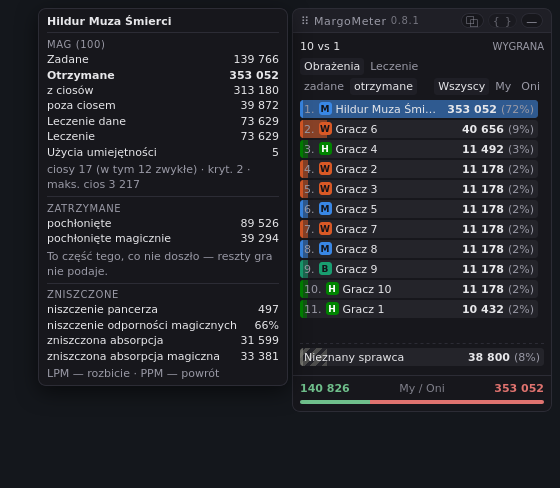
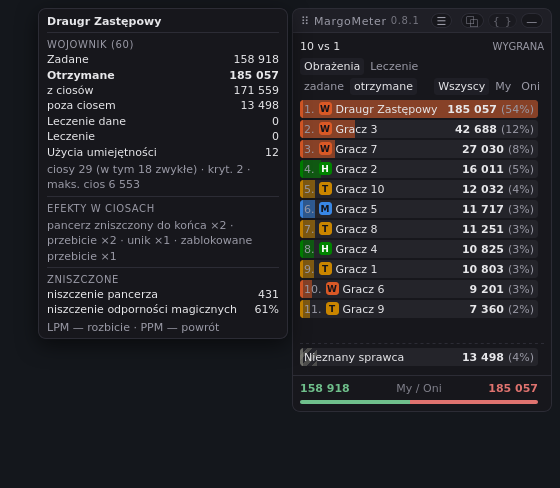
docs(docs,any,tools): the panel is photographed as it stands now, and the fifth audit closes
Closes F8 of `docs/audits/2026-08-26-the-whole-tree-read-a-fifth-time.md`, and
with it the audit — which was the round's whole purpose (§7.7).

**The set was fifteen commits stale, in both READMEs, above everything else a
player sees.** `screenshots/taken-at.json` named `bf3f4c8`; three of the fifteen
changed what is in frame — `0a53e9b` put `⚠` beside a combatant something could
not be read about, `75096ad` put `☰` on the title bar, and `487ec04` made every
bar one width using one of these four pictures as its evidence. The repository
fixed the bug and left the picture. This is the second audit in a row to file it,
which is §7.7's own trigger, and the guard written to make it readable did its
job: the commit was there to be compared and nobody compared it.

Retaken at `f2fb2ad` on the newest recording, `2026-08-26-luvia-grupa-vs-draugr`
— ten players against a level-60 Draugr, which is the *ten against one* both
captions already promised. **Every picture was opened before this commit**, which
is §9.8's obligation on a person and the half no guard here holds: five real
panels, five distinct screens, five different file sizes, each with the panel in
frame and the title bar carrying the `☰` no earlier set could have.

**A fifth shot: the shelf.** It is not on the drill chain the other four make —
ranking, breakdown, deepest level, card — and it is here for the opposite reason:
it is the one screen a reader cannot guess at from the ranking. The others show a
[…]

diff --git a/tools/panel-screenshots.ts b/tools/panel-screenshots.ts
@@ -82,7 +82,7 @@ export type PanelShot = {
 };
 
 /**
- * Damage taken, drilled to the bottom, plus the card.
+ * Damage taken, drilled to the bottom, plus the card — and the shelf beside them.
  *
  * The chain is deliberate: the ranking answers *who*, and the two levels under it
  * answer *what that figure is made of* — which is the thing prose cannot show and
@@ -92,12 +92,19 @@ export type PanelShot = {
  * window: it opens beside the panel, and `src/ui/panel-element.ts` keeps all
  * of it on screen, so too narrow a window moves it rather than clipping it and the
  * picture would be honest and useless.
+ *
+ * The shelf is not on that chain and is here for the opposite reason: it is the
+ * one screen a reader cannot guess at from the ranking. Every other picture shows
+ * a figure being taken apart, and this one shows that a fight survives the fight
+ * after it — which is the whole of what a reader would otherwise have to install
+ * the add-on to find out (`docs/specs/2026-08-26-a-fight-you-can-go-back-to.md`).
  */
 export const PANEL_SHOTS: PanelShot[] = [
   { name: "taken", width: 292, height: 480 },
   { name: "breakdown", width: 292, height: 656 },
   { name: "deep", width: 292, height: 448 },
   { name: "tip", width: 560, height: 488 },
+  { name: "fights", width: 292, height: 400 },
 ];
 
 export function composeShotFileName(shot: PanelShot): string {
@@ -117,7 +124,7 @@ export const TAKEN_TAB_INDEX = composeDirectionTabs(composeDefaultState().metric
 /**
  * The classes the driver reaches through, spelled once.
  *
- * The panel names its own nodes and this file has to name three of them to click
+ * The panel names its own nodes and this file has to name some of them to click
  * them — the §9.3 case exactly, a name two files spell with nothing catching a
  * disagreement. Nothing here would fail loudly: a renamed class means
  * `querySelector` answers `null`, the marker draws, and the only cost is a set of
@@ -131,6 +138,7 @@ export const SHOT_CLASSES = {
   tab: "tab",
   sidesOf: "sides-of",
   tabs: "tabs",
+  titlebarFights: "titlebar-fights",
 } as const;
 
 /**
@@ -152,6 +160,12 @@ export const SHOT_CLASSES = {
  * three identical pictures of the ranking, one per drill level, and the only sign
  * was that all three files were the same size. The card is the exception and
  * genuinely wants `pointerover`.
+ *
+ * ⚠ **And the title bar is the other exception, for the same reason turned
+ * round.** Its buttons are built once, outside every render
+ * (`src/ui/panel-element.ts`), so no payload can take one out from under a press
+ * — which is why they listen for `click` and why a `pointerdown` on the one that
+ * opens the shelf does nothing at all.
  *
  * ⚠ **A shot that cannot reach its state must not come back looking like a
  * panel.** A missing row is the failure with no symptom: the click does nothing,
@@ -193,6 +207,10 @@ const SHOT_SCRIPT = `
     node.dispatchEvent(new PointerEvent("pointerdown", { bubbles: true, button: 0 }));
   }
 
+  function setClicked(node) {
+    node.dispatchEvent(new MouseEvent("click", { bubbles: true, button: 0 }));
+  }
+
   function setOpened(what) {
     var row = root.querySelector(".${SHOT_CLASSES.row}.${SHOT_CLASSES.drillable}");
     if (row === null) {
@@ -226,6 +244,14 @@ const SHOT_SCRIPT = `
       return;
     }
     hovered.dispatchEvent(new PointerEvent("pointerover", { bubbles: true }));
+  }
+  if (shot === "fights") {
+    var shelf = root.querySelector(".${SHOT_CLASSES.titlebarFights}");
+    if (shelf === null) {
+      setMarked("the title bar has no button onto the shelf of kept fights");
+      return;
+    }
+    setClicked(shelf);
   }
 })();
 `;
@@ -401,8 +427,8 @@ export function getFightByName(name: string | null): (typeof CAPTURED_FIGHTS)[nu
  * ⚠ **The pictures are taken somewhere else and moved in at the end.** Removing
  * the directory first and shooting into it is the obvious order and it is wrong:
  * a browser that will not start — a wrong `--browser`, a machine with none —
- * leaves the repository with no screenshots at all and a README pointing at four
- * files that are gone. Paid for by the test that names a browser nothing can
+ * leaves the repository with no screenshots at all and a README pointing at files
+ * that are gone. Paid for by the test that names a browser nothing can
  * find, which deleted the committed set on its way to failing.
  *
  * The set is still replaced rather than merged. A file left over from a set that

diff --git a/tests/tools/panel-screenshots.test.ts b/tests/tools/panel-screenshots.test.ts
@@ -10,7 +10,7 @@
  *
  * What is left for the gate is the half that rots on its own. A set taken two
  * releases ago looks exactly like one taken this morning, and a selector renamed
- * in `src/ui/panel-element.ts` turns every future run into four pictures of a
+ * in `src/ui/panel-element.ts` turns every future run into a set of pictures of a
  * marker — both silent, and both caught below.
  */
 

diff --git a/docs/audits/2026-08-26-the-whole-tree-read-a-fifth-time.md b/docs/audits/2026-08-26-the-whole-tree-read-a-fifth-time.md
@@ -1,6 +1,6 @@
 # The whole tree, read a fifth time
 
-Status: open
+Status: closed
 Read at: 75096ad
 
 The seventh audit, and the fifth that reads the whole tree. The fourth read
@@ -142,7 +142,7 @@ No test drives a refusing settings store. `tests/userscript-entry.test.ts:430`
 tests the write landing and nothing tests it not landing.
 
 *Where:* `src/userscript-entry.ts:878`
-*Closes:* open
+*Closes:* guard `tests/userscript-entry.test.ts`
 
 ### F2 — A new fight closes the levels of an old fight somebody is reading
 
@@ -166,7 +166,7 @@ be. The reducer's own reason for existing is false in the one case the shelf
 created.
 
 *Where:* `src/userscript-entry.ts:1247`
-*Closes:* open
+*Closes:* guard `tests/game/engine-attachment.test.ts`
 
 ### F3 — At a limit of zero one rotation honours a pin and the other drops it
 
@@ -201,7 +201,7 @@ but its all-pinned return hands back a copy with `dropped` empty, so a caller
 reading identity is told something changed when nothing did.
 
 *Where:* `src/game/kept-fights.ts:280`
-*Closes:* open
+*Closes:* guard `tests/game/kept-fights.test.ts`
 
 ### F4 — One hanging mutant throws away the whole sweep, and it is the last one every time
 
@@ -252,7 +252,7 @@ came back clean even on the throwing path, so §7.5's rule about never restoring
 with `git checkout` was not tested by this.
 
 *Where:* `tools/mutation-sweep.ts:320`
-*Closes:* open
+*Closes:* guard `tests/tools/mutation-sweep.test.ts`
 
 ### F5 — The panel's delegated-event root is spelled twice, and only a comment holds the two together
 
@@ -279,7 +279,7 @@ a green guard.
 Nothing has drifted yet. The finding is that nothing would say so.
 
 *Where:* `src/ui/panel-element.ts:1043`
-*Closes:* open
+*Closes:* guard `tests/ui/panel-element.test.ts`
 
 ### F6 — A spec still in draft says the add-on writes nothing down
 
@@ -310,7 +310,7 @@ The `draft` status itself is right: the three commits the spec proposes are not
 written, and its own *What stays open* is honest.
 
 *Where:* `docs/specs/2026-08-26-the-game-says-the-fight-again.md:29`
-*Closes:* open
+*Closes:* commit
 
 ### F7 — The published preview keeps a stranger's demo fight in their browser
 
@@ -341,9 +341,9 @@ profile per shot (`:296`) for a reason already written down, so the pictures can
 never be of a panel carrying the last run's shelf.
 
 *Where:* `tools/preview-site.ts:70`
-*Closes:* open
+*Closes:* guard `tests/tools/preview-page.test.ts`
 
-### F8 — Four pictures of a panel that has moved fifteen commits, in both READMEs
+### F8 — Pictures of a panel that has moved fifteen commits, in both READMEs
 
 The second audit in a row to file this, which is §7.7's own trigger for opening
 one. `docs/audits/2026-08-19-the-whole-tree-read-a-fourth-time.md` F1 was a set
@@ -383,7 +383,7 @@ last: it should be the round immediately before the tag, after F1, F2, F3 and F4
 have finished moving the panel.
 
 *Where:* `screenshots/taken-at.json:3`
-*Closes:* open
+*Closes:* guard `tests/tools/panel-screenshots.test.ts`
 
 ## Looked at and clean
 

diff --git a/AGENTS.md b/AGENTS.md
@@ -205,7 +205,7 @@ from (§9.5).
 | `tools/preview-page.ts` | *What does the harness put in front of the panel?* The page as one string. Library, not a CLI. |
 | `tools/preview-server.ts` | *What does the panel look like right now?* `bun run preview`. The gate cannot see a panel; this can. |
 | `tools/preview-site.ts` | *What does it look like to somebody who installed nothing?* `bun run preview:site`. Nothing it writes is committed. |
-| `tools/panel-screenshots.ts` | *What does the panel look like, as pictures for a README?* `bun run screenshots`. Four, for the current release only. §9.8. |
+| `tools/panel-screenshots.ts` | *What does the panel look like, as pictures for a README?* `bun run screenshots`. One set, for the current release only. §9.8. |
 | `tools/changelog.ts` | *What does this release say for itself?* `notes <version>`; a version with no section refuses. |
 
 ---
@@ -592,7 +592,7 @@ tools/                   Never ships. §6.2 says what each answers.
   preview-page.ts            The harness page as one string, with its holes.
   preview-server.ts          That page in a browser, changing while you edit it.
   preview-site.ts            The same page written down, in Polish, for Pages.
-  panel-screenshots.ts       The panel photographed, four screens, one release.
+  panel-screenshots.ts       The panel photographed, screen by screen, one release.
   changelog.ts               One version's section, plus which file to click.
 
 tests/                     A test sits where its subject sits: `libs/`, `core/`,

diff --git a/CHANGELOG.md b/CHANGELOG.md
@@ -114,6 +114,15 @@ Wszystkie istotne zmiany w tym dodatku są tu notowane.
   i pasek podsumowania na dole rysowały się szersze od pasków postaci nad nimi,
   więc ta sama liczba wychodziła na nich dłuższa, niż powinna.
 
+- **Poprawka** — Wybór miejsca i liczby trzymanych walk nie przepada już po cichu.
+  Jeśli przeglądarka nie przyjmie takiego ustawienia, panel zostawia wszystko tak,
+  jak było, i napisze o tym. Wcześniej zaznaczał nowy wybór jako przyjęty, a po
+  wejściu do gry następnym razem walki potrafiły zniknąć z listy.
+
+- **Poprawka** — Rozbicie otwarte na skończonej walce zostaje otwarte, kiedy
+  zaczyna się nowa. Panel wracał na górę listy również komuś, kto oglądał walkę
+  sprzed godziny — a wiersze pod spodem i tak należały do tamtej walki.
+
 ## [0.8.1] — 2026-08-22
 
 - **Poprawka** — Procenty w nawiasach sumują się teraz do 100. Wcześniej każdy

diff --git a/README.md b/README.md
@@ -9,6 +9,7 @@ Miernik obrażeń do [Margonem](https://www.margonem.pl/) — statystyki walki n
 |---|---|
 | ![Panel z listą walczących według otrzymanych obrażeń](screenshots/panel-taken.png) | ![Obrażenia jednego walczącego w rozbiciu na przeciwników i rodzaje obrażeń](screenshots/panel-breakdown.png) |
 | ![Najgłębszy poziom: jeden przeciwnik, po umiejętnościach i rodzajach obrażeń](screenshots/panel-deep.png) | ![Karta ze szczegółami otwarta obok panelu](screenshots/panel-tip.png) |
+| ![Półka z walkami, które są jeszcze zapisane](screenshots/panel-fights.png) | |
 
 Obrażenia otrzymane w walce dziesięciu na jednego.
 

diff --git a/README.en.md b/README.en.md
@@ -9,6 +9,7 @@ in a panel over the game. SKADA or Details!, for Margonem.
 |---|---|
 | ![The panel ranking combatants by damage taken](screenshots/panel-taken.png) | ![One combatant's damage broken down by opponent and by damage type](screenshots/panel-breakdown.png) |
 | ![The deepest level: one opponent, by skill and by damage type](screenshots/panel-deep.png) | ![The detail card open beside the panel](screenshots/panel-tip.png) |
+| ![The shelf of fights that are still kept](screenshots/panel-fights.png) | |
 
 Damage taken in a ten-against-one fight.
 
